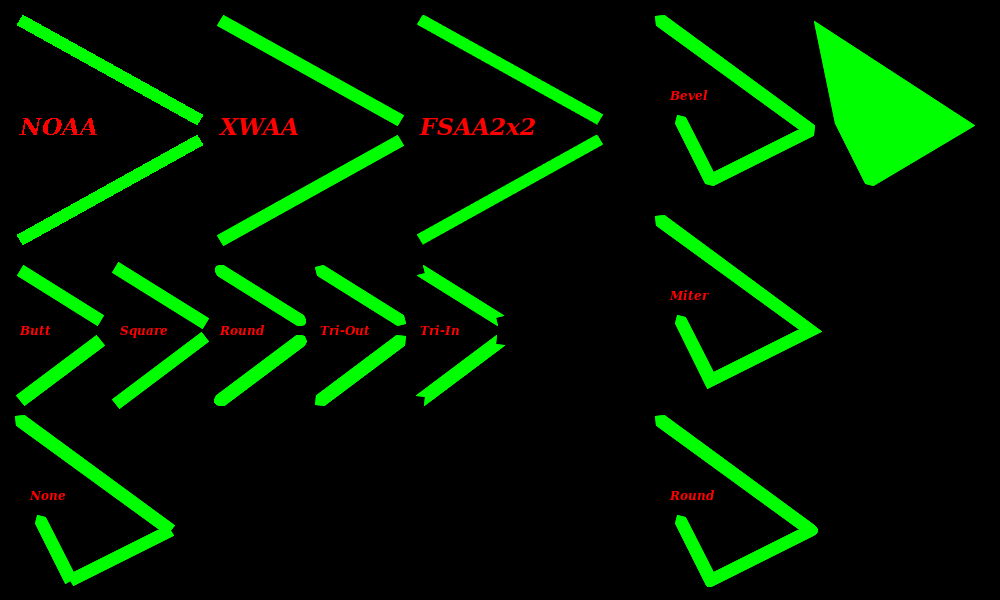
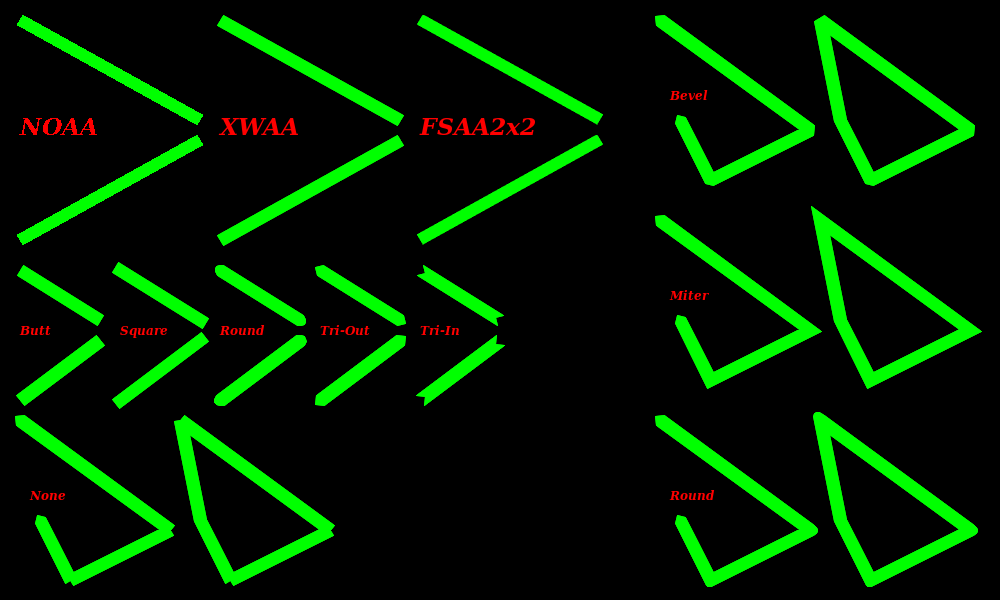
Working on thick polygon

diff --git a/src/Pt-Gfx/Rasterizer2_Polygon.cpp b/src/Pt-Gfx/Rasterizer2_Polygon.cpp
@@ -63,6 +63,57 @@ void Rasterizer2::strokeOnePixelPolygon(const Point* points, size_t pointCount, 
     }
 }
 
+void Rasterizer2::strokePolygon(const Point* points, size_t pointCount)
+{
+    // Check if there is no actual point
+    if(!pointCount) return;
+
+    // Disable texture/gradient
+    const bool isTexture  = _isTexture;
+    const bool isGradient = _isGradient;
+
+    _isTexture  = false;
+    _isGradient = false;
+
+    // Separate the polygons and clip their coordinates
+    Pt::int32_t         minX;
+    Pt::int32_t         minY;
+    Pt::int32_t         maxX;
+    Pt::int32_t         maxY;
+
+    std::vector<Point > clippedPoints;
+    std::vector<size_t> clippedCounts;
+
+    separateAndClipPolygons(minX, maxX, minY, maxY, clippedPoints, clippedCounts, points, pointCount);
+
+    // Draw the polygon
+    if(_aaMode == AntiAliasingMode::None) {
+        rasterPolygonAreaNoAA(
+            clippedPoints.data(), clippedCounts.data(),
+            clippedCounts.size(), clippedPoints.size(),
+            _pen.color(), minX, minY, maxX, maxY
+        );
+    }
+    else if(_aaMode == AntiAliasingMode::Standard) {
+        rasterPolygonAreaXWAA(
+            clippedPoints.data(), clippedCounts.data(),
+            clippedCounts.size(), clippedPoints.size(),
+            _pen.color(), minX, minY, maxX, maxY
+        );
+    }
+    else { // _aaMode == AntiAliasingMode::LowMemory
+        rasterPolygonAreaFSAA2x2(
+            clippedPoints.data(), clippedCounts.data(),
+            clippedCounts.size(), clippedPoints.size(),
+            _pen.color(), minX, minY, maxX, maxY
+        );
+    }
+
+    // Restore texture/gradient
+    _isTexture  = isTexture;
+    _isGradient = isGradient;
+}
+
 void Rasterizer2::strokePolygonSeparate(const Point* points, size_t pointCount)
 {
     // Check if there is no actual point
@@ -113,39 +164,16 @@ void Rasterizer2::fillPolygon(const Point* points, size_t pointCount)
     // Check if there is no actual point
     if(!pointCount) return;
 
-    // Minimum and maximum coordinate values for all the polygons
-    Pt::int32_t minX =  MAXIMUM_COORD;
-    Pt::int32_t minY =  MAXIMUM_COORD;
-    Pt::int32_t maxX = -MAXIMUM_COORD;
-    Pt::int32_t maxY = -MAXIMUM_COORD;
-
     // Separate the polygons and clip their coordinates
+    Pt::int32_t         minX;
+    Pt::int32_t         minY;
+    Pt::int32_t         maxX;
+    Pt::int32_t         maxY;
+
     std::vector<Point > clippedPoints;
     std::vector<size_t> clippedCounts;
-    size_t              startIndex = 0;
-    for(size_t i = 0; i <= pointCount; ++i) {
-        // Search for the end and/or separator points
-        if( i == pointCount || (points[i].x() > MAXIMUM_COORD && points[i].y() > MAXIMUM_COORD) ) {
-            // Calculate the number of points for this polygon
-            const size_t curPC = i - startIndex;
-            // Clip the coordinates
-            std::vector<Point> clipped;
-            genClippedPolygonPoints(clipped, points + startIndex, curPC);
-            // Increment the start index
-            startIndex += curPC + 1;
-            // Calculate the minimum and maximum coordinate values
-            Pt::int32_t curMinX, curMinY, curMaxX, curMaxY;
-            getPolygonRectMinMax(clipped.data(), clipped.size(), curMinX, curMinY, curMaxX, curMaxY);
-            if(curMinX < minX) minX = curMinX;
-            if(curMinY < minY) minY = curMinY;
-            if(curMaxX > maxX) maxX = curMaxX;
-            if(curMaxY > maxY) maxY = curMaxY;
-            // Store the clipped points
-            clippedPoints.insert(clippedPoints.end(), clipped.begin(), clipped.end());
-            // Store the number of points
-            clippedCounts.push_back(curPC);
-        }
-    }
+
+    separateAndClipPolygons(minX, maxX, minY, maxY, clippedPoints, clippedCounts, points, pointCount);
 
     // Update the gradient as needed
     if(_isGradient)
@@ -180,14 +208,6 @@ void Rasterizer2::fillPolygon(const Point* points, size_t pointCount)
 // ===== Private Member Functions =======================================================
 // ======================================================================================
 
-void Rasterizer2::genClippedPolygonPoints(std::vector<Point>& dst, const Point* src, const size_t pointCount) const
-{
-    for(size_t i = 0; i < pointCount; ++i)
-        dst.push_back( Point( src[i].x(), src[i].y() ) );
-
-    ClipShape::clipPolygon(dst, _currentClip);
-}
-
 void Rasterizer2::getPolygonRectMinMax(const Point* points, size_t pointCount, Pt::int32_t& minX, Pt::int32_t& minY, Pt::int32_t& maxX, Pt::int32_t& maxY)
 {
     minX =  65535;
@@ -202,6 +222,49 @@ void Rasterizer2::getPolygonRectMinMax(const Point* points, size_t pointCount, P
         if(y < minY) minY = y;
         if(x > maxX) maxX = x;
         if(y > maxY) maxY = y;
+    }
+}
+
+void Rasterizer2::genClippedPolygonPoints(std::vector<Point>& dst, const Point* src, const size_t pointCount) const
+{
+    for(size_t i = 0; i < pointCount; ++i)
+        dst.push_back( Point( src[i].x(), src[i].y() ) );
+
+    ClipShape::clipPolygon(dst, _currentClip);
+}
+
+void Rasterizer2::separateAndClipPolygons(Pt::int32_t& minX, Pt::int32_t& maxX, Pt::int32_t& minY, Pt::int32_t& maxY, std::vector<Point>& clippedPoints, std::vector<size_t>& clippedCounts, const Point* points, size_t pointCount)
+{
+    // Minimum and maximum coordinate values for all the polygons
+    minX =  MAXIMUM_COORD;
+    minY =  MAXIMUM_COORD;
+    maxX = -MAXIMUM_COORD;
+    maxY = -MAXIMUM_COORD;
+
+    // Separate the polygons and clip their coordinates
+    size_t startIndex = 0;
+    for(size_t i = 0; i <= pointCount; ++i) {
+        // Search for the end and/or separator points
+        if( i == pointCount || (points[i].x() > MAXIMUM_COORD && points[i].y() > MAXIMUM_COORD) ) {
+            // Calculate the number of points for this polygon
+            const size_t curPC = i - startIndex;
+            // Clip the coordinates
+            std::vector<Point> clipped;
+            genClippedPolygonPoints(clipped, points + startIndex, curPC);
+            // Increment the start index
+            startIndex += curPC + 1;
+            // Calculate the minimum and maximum coordinate values
+            Pt::int32_t curMinX, curMinY, curMaxX, curMaxY;
+            getPolygonRectMinMax(clipped.data(), clipped.size(), curMinX, curMinY, curMaxX, curMaxY);
+            if(curMinX < minX) minX = curMinX;
+            if(curMinY < minY) minY = curMinY;
+            if(curMaxX > maxX) maxX = curMaxX;
+            if(curMaxY > maxY) maxY = curMaxY;
+            // Store the clipped points
+            clippedPoints.insert(clippedPoints.end(), clipped.begin(), clipped.end());
+            // Store the number of points
+            clippedCounts.push_back(curPC);
+        }
     }
 }
 

diff --git a/src/Pt-Gfx/ImagePainter2.cpp b/src/Pt-Gfx/ImagePainter2.cpp
@@ -356,7 +356,9 @@ void ImagePainter2::drawPolyline( const PointF* ps, const size_t pointCount, boo
     std::vector<Point> points;
 
     convertPointRound(points, pointsF.data(), pointsF.size());
-    _rasterizer->strokePolygonSeparate(points.data(), points.size());
+    //_rasterizer->strokeOnePixelPolygon(points.data(), points.size(), true);
+    //_rasterizer->strokePolygonSeparate(points.data(), points.size());
+    _rasterizer->strokePolygon(points.data(), points.size());
 }
 
 void ImagePainter2::fillPolygon( const PointF* ps, const size_t pointCount )
@@ -716,9 +718,8 @@ bool ImagePainter2::combineLineSegmentForClosedPolygon(std::vector<PointF>& oute
     const size_t penWidth = _rasterizer->pen().size();
 
     // Get the "outside" lines
-    const size_t  N1     = outer.size() - 1;
-    const PointF* line1a = &outer[N1 - 1];
-    const PointF* line1b = &outer[N1 - 0];
+    const PointF* line1a = &outer[outer.size() - 2];
+    const PointF* line1b = &outer[outer.size() - 1];
     const PointF* line2a = &segment[1];
     const PointF* line2b = &segment[2];
 
@@ -728,12 +729,11 @@ bool ImagePainter2::combineLineSegmentForClosedPolygon(std::vector<PointF>& oute
     if(!intersectLine(inLine, intersect, *line1a, *line1b, *line2a, *line2b)) return false;
 
     // Store the "outside" line's points
-    const Pen::JoinStyle js = inLine ? Pen::MiterJoin : _rasterizer->pen().joinStyle();
+    const Pen::JoinStyle js1 = inLine ? Pen::MiterJoin : _rasterizer->pen().joinStyle();
     outer.pop_back();
-    switch(js) {
+    switch(js1) {
         // No join
         case Pen::NoJoin:
-            return false;
             outer.push_back(*line1b);
             outer.push_back(origMeetingPoint);
             outer.push_back(*line2a);
@@ -745,12 +745,10 @@ bool ImagePainter2::combineLineSegmentForClosedPolygon(std::vector<PointF>& oute
             break;
         // Miter join
         case Pen::MiterJoin:
-            return false;
             outer.push_back(intersect);
             break;
         // Round join
         case Pen::RoundJoin:
-            return false;
             generateQuadraticBezierPoints(
                 outer,
                 round(line1b  ->x()), round(line1b  ->y()),
@@ -763,106 +761,54 @@ bool ImagePainter2::combineLineSegmentForClosedPolygon(std::vector<PointF>& oute
         default:
             return false;
     }
-
-    // Done
-    return true;
-
-    /*
-    // Store the "outside" line's points
-    if(inLine) {
-        proc.push_back(intersect);
-    }
-    else {
-        switch(_rasterizer->pen().joinStyle()) {
-            // No join
-            case Pen::NoJoin:
-                proc.push_back(*line1b);
-                proc.push_back(origMeetingPoint);
-                proc.push_back(*line2a);
-                break;
-            // Bevel join
-            case Pen::BevelJoin:
-                proc.push_back(*line1b);
-                proc.push_back(*line2a);
-                break;
-            // Miter join
-            case Pen::MiterJoin:
-                proc.push_back(intersect);
-                break;
-            // Round join
-            case Pen::RoundJoin:
-                generateQuadraticBezierPoints(
-                    proc,
-                    round(line1b  ->x()), round(line1b  ->y()),
-                    round(intersect.x()), round(intersect.y()),
-                    round(line2a  ->x()), round(line2a  ->y()),
-                    ceil(penWidth / 2.0f) - 1
-                );
-                break;
-            // Invalid join type
-            default:
-                return false;
-        }
-    }
-*/
-    // Transfer the points back to the outer polygon buffer
-    //outer.resize(0);
-   // outer.insert(outer.begin(), proc.begin(), proc.end());
-
-
-    /*
-    // Store points #2 to #N from the segment
-    const size_t N2 = segment.size() - 1;
-    for(size_t i = 2; i <= N2; ++i) proc.push_back(segment[i]);
+    outer.push_back(*line2b);
 
     // Get the "inside" lines
-    line1a = &polygon[0 ];
-    line1b = &polygon[N1];
-    line2a = &segment[0 ];
-    line2b = &segment[N2];
-    if(!inner.empty()) line1a = &inner.back();
+    line1a = &inner[inner.size() - 2];
+    line1b = &inner[inner.size() - 1];
+    line2a = &segment[0];
+    line2b = &segment[3];
 
     // Intersect the "inside" lines
     if(!intersectLine(inLine, intersect, *line1a, *line1b, *line2a, *line2b)) return false;
 
     // Store the "inside" line's points
-    if(inLine) {
-        inner.push_back(intersect);
+    const Pen::JoinStyle js2 = inLine ? Pen::MiterJoin : _rasterizer->pen().joinStyle();
+    inner.pop_back();
+    switch(js2) {
+        // No join
+        case Pen::NoJoin:
+            inner.push_back(*line1b);
+            inner.push_back(origMeetingPoint);
+            inner.push_back(*line2a);
+            break;
+        // Bevel join
+        case Pen::BevelJoin:
+            inner.push_back(*line1b);
+            inner.push_back(*line2a);
+            break;
+        // Miter join
+        case Pen::MiterJoin:
+            inner.push_back(intersect);
+            break;
+        // Round join
+        case Pen::RoundJoin:
+            generateQuadraticBezierPoints(
+                inner,
+                round(line1b  ->x()), round(line1b  ->y()),
+                round(intersect.x()), round(intersect.y()),
+                round(line2a  ->x()), round(line2a  ->y()),
+                ceil(penWidth / 2.0f) - 1
+            );
+            break;
+        // Invalid join type
+        default:
+            return false;
     }
-    else {
-        switch(_rasterizer->pen().joinStyle()) {
-            // No join
-            case Pen::NoJoin:
-                inner.push_back(*line1b);
-                inner.push_back(origMeetingPoint);
-                inner.push_back(*line2a);
-                break;
-            // Bevel join
-            case Pen::BevelJoin:
-                inner.push_back(*line1b);
-                inner.push_back(*line2a);
-                break;
-            // Miter join
-            case Pen::MiterJoin:
-                inner.push_back(intersect);
-                break;
-            // Round join
-            case Pen::RoundJoin:
-                generateQuadraticBezierPoints(
-                    inner,
-                    round(line1b  ->x()), round(line1b  ->y()),
-                    round(intersect.x()), round(intersect.y()),
-                    round(line2a  ->x()), round(line2a  ->y()),
-                    ceil(penWidth / 2.0f) - 1
-                );
-                break;
-            // Invalid join type
-            default:
-                return false;
-        }
-    }
+    inner.push_back(*line2b);
 
-*/
+    // Done
+    return true;
 }
 
 

diff --git a/src/Pt-Gfx/Rasterizer2.h b/src/Pt-Gfx/Rasterizer2.h
@@ -152,6 +152,7 @@ class Rasterizer2
         void strokeOnePixelQuadraticPolybezier(const Point* points, size_t pointCount);
         void strokeOnePixelEllipseArc(const Point& topLeft, const Size& size, float degBegin, float degEnd, const ArcMode& arcMode);
 
+        void strokePolygon(const Point* points, size_t pointCount);
         void strokePolygonSeparate(const Point* points, size_t pointCount);
 
         void fillRect(const Point& tl, const Point& br);
@@ -266,8 +267,9 @@ class Rasterizer2
         void rasterScanlineWithClipping(Pt::int32_t from, Pt::int32_t to, Pt::int32_t pixelY, Pt::int32_t minX, Pt::int32_t minY);
 
         // --- Polygon-related helper functions ---
-        void genClippedPolygonPoints(std::vector<Point>& dst, const Point* src, const size_t pointCount) const;
         void getPolygonRectMinMax(const Point* points, size_t pointCount, Pt::int32_t& minX, Pt::int32_t& minY, Pt::int32_t& maxX, Pt::int32_t& maxY);
+        void genClippedPolygonPoints(std::vector<Point>& dst, const Point* src, const size_t pointCount) const;
+        void separateAndClipPolygons(Pt::int32_t& minX, Pt::int32_t& maxX, Pt::int32_t& minY, Pt::int32_t& maxY, std::vector<Point>& clippedPoints, std::vector<size_t>& clippedCounts, const Point* points, size_t pointCount);
 
         // Arc-related helper functions
         static inline void arcUtil_detXWLineDirection(ArcXWLineData& xwLineData);
